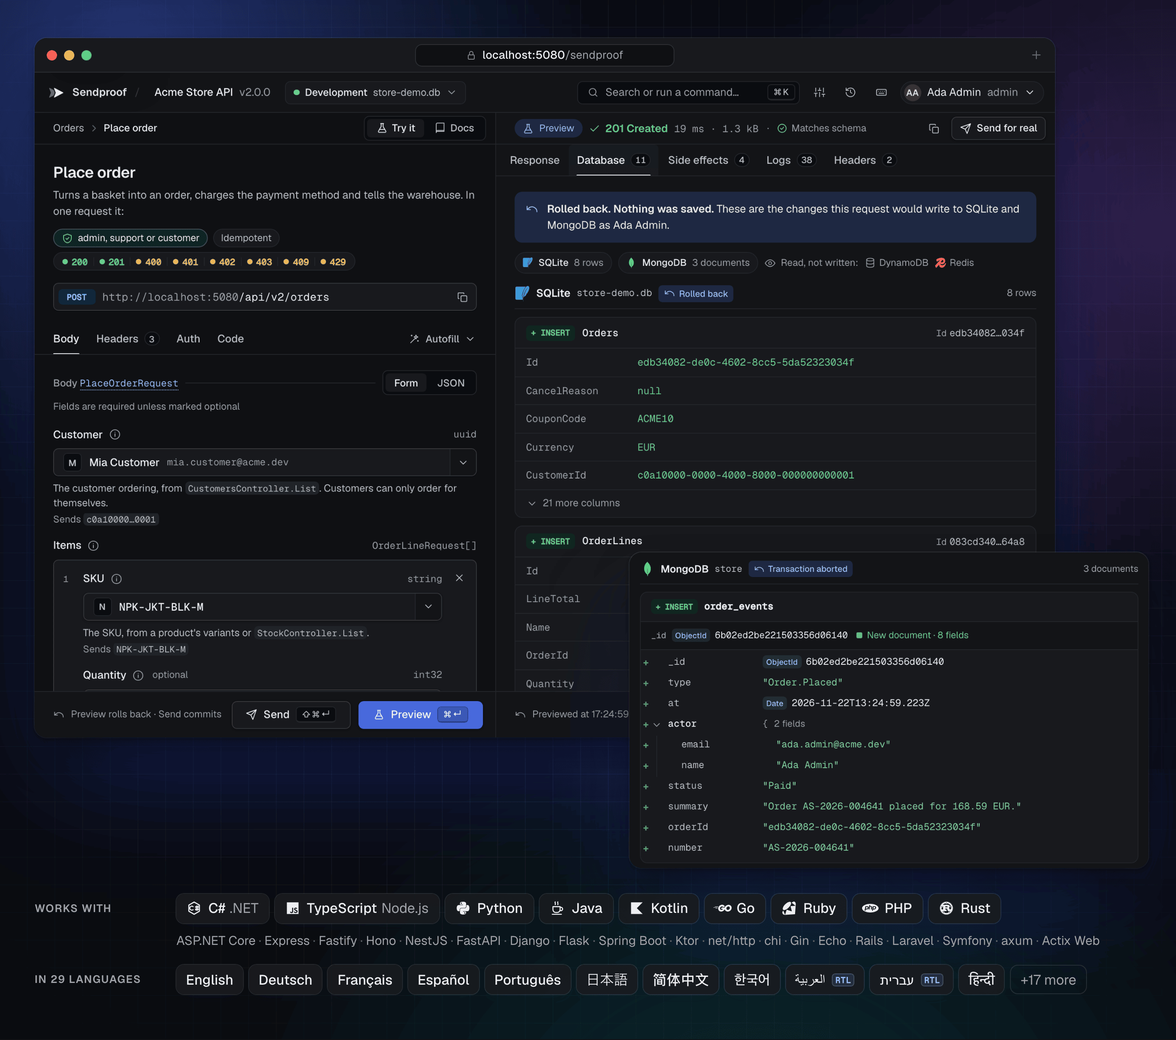
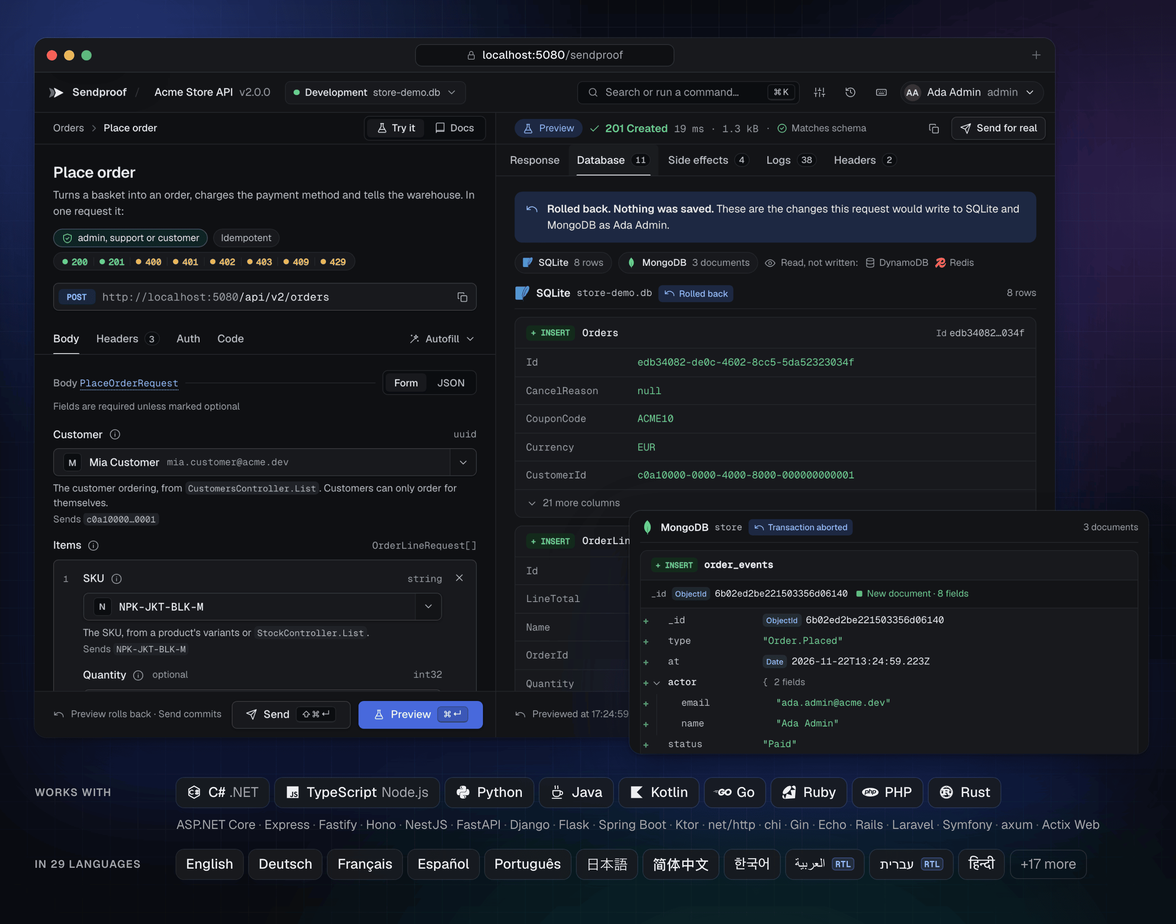
Tighten the hero so the MongoDB panel no longer leaves an empty band below the window
Raise the document panel, end it on a row boundary and lift the language strips. Drop the
remaining references to the old example's domain from the plan notes.

diff --git a/docs/images/src/hero.html b/docs/images/src/hero.html
@@ -9,8 +9,8 @@
   .main { position: relative; }
   /* The MongoDB document diff of the same Preview, pulled out below the SQL Orders row so it
      covers only the lower SQL cards and hangs off the window. */
-  .mongo { position: relative; margin: -214px 0 0 auto; inset: auto; right: 32px; width: max-content; }
-  .works { position: relative; margin: 30px 40px 0 0; }
+  .mongo { position: relative; margin: -262px 0 0 auto; inset: auto; right: 32px; width: max-content; }
+  .works { position: relative; margin: 28px 40px 0 0; }
 </style>
 <script src="../../../artifacts/readme/raw/manifest.js"></script>
 <script src="frame.js"></script>
@@ -30,10 +30,10 @@
 
   <div class="panel mongo">
     <!-- The Database tab of the same Preview, scrolled to its MongoDB document diff. -->
-    <div class="crop" data-raw="order-documents" data-region="documents" data-width="600"><img alt=""></div>
+    <div class="crop" data-raw="order-documents" data-region="documents" data-width="600" data-height="281"><img alt=""></div>
   </div>
 
-  <!-- Filled by works.js: the languages the bindings cover and the 30 interface languages. -->
+  <!-- Filled by works.js: the languages the bindings cover and the 29 interface languages. -->
   <div class="works" data-works></div>
 </div>
 </body>

diff --git a/docs/plans/workbench-v2-progress.md b/docs/plans/workbench-v2-progress.md
@@ -2,18 +2,18 @@
 
 ## Track B
 
-- **2026-11-20, phase 1 — foundation and shell.** The adapter embeds the v2 stylesheet and icon sprite from `ui/`. The new shell uses the mock layout in both themes with keyboard and pointer splitters, per-document widths, a mobile drawer and Request/Result switch. Sign-in uses the new tokens. All 51 UI unit tests, live Treasury integration and standalone accessibility pass. Compared 01, 02, 08 and 11 with the regenerated mock PNGs. Shell geometry matches and live API names and counts differ from the examples. Request controls and the result body are covered by their subsequent phases. Next is the request builder.
-- **2026-11-20, phase 2 — request builder.** Body/Params/Headers/Auth/Code views, Form/JSON switching, optional chips, grouped money and date fields, list rows, stable field assistance and actionable validation are live. Schema validation runs against the original schema and covers nested constraints and compositions. The action-bar issues dialog links to controls and keeps validation out of the document flow. All 61 UI unit tests, live Treasury integration and standalone accessibility pass. Compared 01, 02, 04, 08 and 11 with the mocks. The live example exposes fewer operations and fields. Autofill and the ID popover in 03 and 05 are phase 3.
-- **2026-11-20, phase 3 — IDs and autofill.** Lookup comboboxes query the documented same-origin collections with the browser session, support keyboard search, typed selection, clipboard IDs and random UUIDs, and prioritize the last applicable response. The Autofill menu fills required or all fields, replays eligible drafts, regenerates keys, clears and supports undo. All 61 UI unit tests, live Treasury integration and standalone accessibility pass. Compared 03 and 05 at 1440×900 against approved PNGs and corrected menu and lookup spacing, labels and visual cues. Example data and unsupported operations remain conditional. Next is the headers grid.
-- **2026-11-20, phase 4 — request headers.** The ARIA grid separates documented, session-managed and custom headers, with enable checkboxes, suggestions, presets, bulk edit and spec chips. Request preparation resolves variables once per execution and omits disabled rows. Validation now reports one issue per field with matching help text and no raw patterns. All 64 UI unit tests, live Treasury integration and standalone accessibility pass. Compared 06, 07 and 12 and fixed the live mobile layout at 390 px and 130% text. The mock's larger intrinsic minimum width is clipped to the viewport for comparison, and the live app is asserted to have no horizontal overflow. Next are keyboard overlays.
-- **2026-11-20, phase 5 — keyboard and overlays.** The registry supplies keyboard handling, keycaps, ARIA bindings, a searchable shortcut directory and scoped palette actions. Browser verification rejects orphan keycaps and ARIA bindings and exercises both overlays, scope changes and the bulk-headers shortcut. All 64 UI unit tests, live Treasury integration and standalone accessibility pass. Compared 09 and 10 and compacted the shortcut directory to match the approved grouping. The Copy URL binding uses Option+Command+U to avoid the mock's duplicate Switch user binding. Next is the result pane.
+- **2026-11-20, phase 1 — foundation and shell.** The adapter embeds the v2 stylesheet and icon sprite from `ui/`. The new shell uses the mock layout in both themes with keyboard and pointer splitters, per-document widths, a mobile drawer and Request/Result switch. Sign-in uses the new tokens. All 51 UI unit tests, live example integration and standalone accessibility pass. Compared 01, 02, 08 and 11 with the regenerated mock PNGs. Shell geometry matches and live API names and counts differ from the examples. Request controls and the result body are covered by their subsequent phases. Next is the request builder.
+- **2026-11-20, phase 2 — request builder.** Body/Params/Headers/Auth/Code views, Form/JSON switching, optional chips, grouped money and date fields, list rows, stable field assistance and actionable validation are live. Schema validation runs against the original schema and covers nested constraints and compositions. The action-bar issues dialog links to controls and keeps validation out of the document flow. All 61 UI unit tests, live example integration and standalone accessibility pass. Compared 01, 02, 04, 08 and 11 with the mocks. The live example exposes fewer operations and fields. Autofill and the ID popover in 03 and 05 are phase 3.
+- **2026-11-20, phase 3 — IDs and autofill.** Lookup comboboxes query the documented same-origin collections with the browser session, support keyboard search, typed selection, clipboard IDs and random UUIDs, and prioritize the last applicable response. The Autofill menu fills required or all fields, replays eligible drafts, regenerates keys, clears and supports undo. All 61 UI unit tests, live example integration and standalone accessibility pass. Compared 03 and 05 at 1440×900 against approved PNGs and corrected menu and lookup spacing, labels and visual cues. Example data and unsupported operations remain conditional. Next is the headers grid.
+- **2026-11-20, phase 4 — request headers.** The ARIA grid separates documented, session-managed and custom headers, with enable checkboxes, suggestions, presets, bulk edit and spec chips. Request preparation resolves variables once per execution and omits disabled rows. Validation now reports one issue per field with matching help text and no raw patterns. All 64 UI unit tests, live example integration and standalone accessibility pass. Compared 06, 07 and 12 and fixed the live mobile layout at 390 px and 130% text. The mock's larger intrinsic minimum width is clipped to the viewport for comparison, and the live app is asserted to have no horizontal overflow. Next are keyboard overlays.
+- **2026-11-20, phase 5 — keyboard and overlays.** The registry supplies keyboard handling, keycaps, ARIA bindings, a searchable shortcut directory and scoped palette actions. Browser verification rejects orphan keycaps and ARIA bindings and exercises both overlays, scope changes and the bulk-headers shortcut. All 64 UI unit tests, live example integration and standalone accessibility pass. Compared 09 and 10 and compacted the shortcut directory to match the approved grouping. The Copy URL binding uses Option+Command+U to avoid the mock's duplicate Switch user binding. Next is the result pane.
 
-- **2026-11-20, phase 6 — results and observed Send.** The result pane shows the live response, captured database changes, typed effects, structured logs, headers and server timings when available. Browser tests distinguish rolled-back Preview from committed Send, exercise its trace and follow-up, and check keyboard SQL and header disclosures. All 77 UI unit tests, live Treasury integration and standalone accessibility pass. Compared 13–17 against the mocks and corrected accessibility and log details. The demo provides a text email and filtered Preview headers, so other effect types, HTML and cookie rows depend on the captured data. Next is cleanup and the final regression run.
+- **2026-11-20, phase 6 — results and observed Send.** The result pane shows the live response, captured database changes, typed effects, structured logs, headers and server timings when available. Browser tests distinguish rolled-back Preview from committed Send, exercise its trace and follow-up, and check keyboard SQL and header disclosures. All 77 UI unit tests, live example integration and standalone accessibility pass. Compared 13–17 against the mocks and corrected accessibility and log details. The demo provides a text email and filtered Preview headers, so other effect types, HTML and cookie rows depend on the captured data. Next is cleanup and the final regression run.
 - **2026-11-20, phase 7 — finish.** Removed the v1 mocks and capture script, moved the approved designs to `mocks/`, and updated the README, changelog and contributor guide. Added a discovery skeleton and verified that it preserves the default pane bounds. Regenerated and compared all 17 live and approved screenshots. The Release build, 77 UI unit tests, 43 .NET tests, browser integration and standalone accessibility all pass. Browser artifacts are in `artifacts/browser/`. The schema validator resolves document-local pointers and anchors. External references, `$id`-scoped resources and dynamic references remain unsupported. No Track B phase remains.
 
 ## Track A
 
-- **2026-11-20.** Implemented scoped structured logs, redacted EF Core command capture, timing, typed email/HTTP/job/message effects, and owner-only observed sends. Updated the protocol schemas, adapter docs and Treasury example. Added regressions for capture isolation, host log levels, SQL redaction and opt-out, trace ownership and expiry, and capture bounds.
+- **2026-11-20.** Implemented scoped structured logs, redacted EF Core command capture, timing, typed email/HTTP/job/message effects, and owner-only observed sends. Updated the protocol schemas, adapter docs and the example. Added regressions for capture isolation, host log levels, SQL redaction and opt-out, trace ownership and expiry, and capture bounds.
 - Protocol v1 discovery adds optional `observedSend`. Send an advertised operation to its original URL with `Prefer: trace`. When the response contains `X-TestBench-Trace`, fetch `GET /bench/_api/traces/{id}` as that same authenticated subject. The trace contains `changes`, `effects`, `logs` and `timing: {auth, handler, db, queryCount, serialize}`. Durations are in milliseconds.
 - Preview and trace may include `logsTruncated`, `effectsTruncated` and `changesTruncated`. Logs add optional `category`, `eventId: {id, name?}`, `offsetMs`, `elapsedMs`, `properties: {[name]: string}`, `exception: {type, message}` and `sql: {text, parameters: [{name, value, dbType}], rowsAffected?}`. SQL uses `level: "Sql"`. A redacted parameter value is `"[REDACTED]"`.
 - Effects add optional `delivered: true` on observed Send. Conventional `data` fields are email `{from, to[], cc[], subject, text, html?}`, HTTP `{method, url, status?, body?}`, job `{name, queue?, runAt?, arguments}` and message `{topic, key?, payload}`. Both modes expose `Server-Timing` metrics `auth`, `handler`, `db` with `desc="N queries"`, and `serialize`.
@@ -28,14 +28,14 @@ How the UI is organised for v3:
 - `ui/i18n.js` formats with `Intl` and looks up strings in `ui/locales/{en,de,ar}.js`. `ui/settings.js` stores density, theme, language, digits and traced Send, and applies them to `<html>`.
 - `ui/components.js` holds the shared builders from the mock (`tab`, `kbd`, `copyButton`, `state`). `ui/copy.js` is the one clipboard path with visible feedback.
 
-- **2026-11-20, phase 0 — mocks.** Retuned `mocks/v3/styles.css` to the owner's scale (Default 14/36/40, Compact 13/32/36, Comfortable 15/40/44) and scaled fixed sizes in proportion. Send and Preview are centred with equal padding and per-locale, per-platform em widths. Added traced-Send-on (49), Arabic digits (50) and the v2-only states carried forward (51–56, m12), with their v2 styles moved to logical properties in `views.css`. The example API now keeps its cookie keys in `treasury-demo.keys/` beside its database.
+- **2026-11-20, phase 0 — mocks.** Retuned `mocks/v3/styles.css` to the owner's scale (Default 14/36/40, Compact 13/32/36, Comfortable 15/40/44) and scaled fixed sizes in proportion. Send and Preview are centred with equal padding and per-locale, per-platform em widths. Added traced-Send-on (49), Arabic digits (50) and the v2-only states carried forward (51–56, m12), with their v2 styles moved to logical properties in `views.css`. The example API now keeps its cookie keys in a keys folder beside its database.
 - **2026-11-20, phases 1–5 — shell, tabs and states, copy, wand and Code, sign-in, Docs and toggletips.** `ui/styles.css` and `ui/views.css` are the mock files; `ui/app.css` holds live-only rules (desktop track sizes are scoped to `min-width: 56.001rem` so the mock's one-column mobile grid wins). New modules: `i18n.js` and `locales/`, `settings.js`, `display-settings.js`, `components.js`, `copy.js`, `popover.js`, `toggletip.js`, `field-help.js`, `generate.js`, `generate-menu.js`, `sidebar.js` (Operations and Models tabs), `operation-header.js`, `action-bar.js`, `result-states.js` (all five tabs always present), `docs-view.js`, `model-view.js`, `overview-view.js`, `history-popover.js`, `schema-model.js`, `markdown.js`, `highlight.js`, `security.js`. Hash routes: `#overview`, `#op/<operationId>`, `#docs/<operationId>`, `#model/<Name>`. The example spec now documents `cookieAuth`, role alternatives (shown as "admin or payments.approve"), 401/403/404/409 and tag descriptions. Traced Send is on by default in Development and the trace returns changes, effects and logs (checked live). Unit tests pass (80). A Sonnet helper is localising the capture panes, headers editor, issues and validation messages into `ui/locales/en-capture.js`. Next: response Schema view, RTL and layout, de/ar catalogues, then the browser and accessibility suites.
 - **2026-11-20, phases 6–8 — models and response schema, i18n and RTL, remaining review items.** The response viewer has a Schema mode (`propertyTree` with the returned properties marked). German and Arabic catalogues cover every key (`locales/{de,ar}.js` and `*-capture.js`; a unit test checks keys and placeholders). Arabic is right to left with Latin digits by default and an Arabic-Indic option; dividers, popovers and arrow keys mirror. Lookups no longer query while signed out. The headers editor and Logs have the mock's empty and filtered-empty states. Sign-in maps 401 to "Wrong email or password" and explains 5xx with technical details. The v3 mocks moved to `mocks/` (v2 removed) and `tools/shoot-mocks.mjs` replaced `shoot-v2.mjs`; `tests/ui/mock-styles.test.mjs` keeps `ui/styles.css` and `ui/views.css` identical to the mocks. `tools/browser-test.mjs` compares the live app with v3 screens (01, 02, 18, 22, 30, 49, 51–56, m01, m12) and `tools/accessibility.mjs` audits every view, both themes, Arabic and German. Both pass against a dev host.
-- **2026-11-20, v3 finish.** Final runs: 91 UI unit tests, `dotnet test TestBench.slnx` (50 tests), `node tools/browser-test.mjs` and `node tools/accessibility.mjs` on fresh hosts, and the 25-binding conformance matrix all pass. The Go and Rust UI snapshots were regenerated with `tools/pack-ui.mjs`. The live demo runs from `artifacts/release-check` on port 5189 (log `artifacts/treasury-5189.log`); screenshots of its key states are in `artifacts/v3-live/`. Known gaps: the example has no deprecated operation, so deprecation (mock 26) is covered by unit tests only; header-editor popups position with physical left/top, which is correct in both directions because they're computed from the anchor.
+- **2026-11-20, v3 finish.** Final runs: 91 UI unit tests, `dotnet test TestBench.slnx` (50 tests), `node tools/browser-test.mjs` and `node tools/accessibility.mjs` on fresh hosts, and the 25-binding conformance matrix all pass. The Go and Rust UI snapshots were regenerated with `tools/pack-ui.mjs`. The live demo runs from `artifacts/release-check` on port 5189 (log `artifacts/demo-5189.log`); screenshots of its key states are in `artifacts/v3-live/`. Known gaps: the example has no deprecated operation, so deprecation (mock 26) is covered by unit tests only; header-editor popups position with physical left/top, which is correct in both directions because they're computed from the anchor.
 
 ## v4
 
-- **2026-11-20, phase A — realistic demo data.** `examples/TreasuryApi` is now a 40-operation treasury API (nine tags: Authentication, Accounts, Balances, Counterparties, Payments, Approvals, FX deals, Bank statements, Users and roles). Every operation, parameter and property is described (XML comments; a test checks it), with enums, formats, constraints, ProblemDetails and validation responses, per-operation roles, one deprecated operation (`GET /api/v2/accounts/{id}/balance`) and two discriminated unions (bank details by `scheme`, FX deals by `type`). Lists return `{ items, page, pageSize, totalItems, totalPages }`. The seed has 8 users, 27 accounts with valid IBANs, 51 counterparties, 188 payments in all nine statuses, 31 FX deals and 130 reconciling statements; Operating EUR still starts at 250000. Preview covers every meaningful write. Example tests (5), conformance `dotnet-treasury` (7), the browser and accessibility suites and `TestBench.slnx` pass; the fixtures compare payment counts against the seeded baseline.
+- **2026-11-20, phase A — realistic demo data.** The example API now has 40 operations across nine tags. Every operation, parameter and property is described (XML comments; a test checks it), with enums, formats, constraints, ProblemDetails and validation responses, per-operation roles, one deprecated operation (`GET /api/v2/accounts/{id}/balance`) and two discriminated unions. Lists return `{ items, page, pageSize, totalItems, totalPages }`. The seed covers every status and relationship the operations use. Preview covers every meaningful write. Example tests (5), the example conformance profile (7), the browser and accessibility suites and `TestBench.slnx` pass; the fixtures compare record counts against the seeded baseline.
 - **2026-11-20, phase B — v4 mocks.** The mocks render the real example: `tools/mock-spec.mjs` snapshots its document and responses into `mocks/spec.js`. New: `mocks/sidebar.js`, `mocks/flow.html`; rewritten `schema.js`, `docs.js`, `models.js`. Screens 57–75 and m13–m17 cover the stable shell, one reference space with breadcrumbs and Back, the property-row anatomy, inline `$ref` and `oneOf`, the signed-out notice, expanded JSON, remembered groups and aligned bars; every other screen was re-rendered in the new shell. `tools/shoot-mocks.mjs` fails if the column edges, head line or bar line differ between Try it, Docs and a model page. `ui/` was unchanged at this point. After approval, `v4.css` was merged into `styles.css` and `views.css` and deleted; model pages kept one Back control (in the head row), List pages start collapsed and model titles use the operation title font.
 - **2026-11-21, phase C — v4 in `ui/`.** The live app now follows mocks 57–75 and m13–m17, and every older screen sits in the same shell. `ui/styles.css` and `ui/views.css` are byte copies of the mocks (no `v4.css`; `tests/ui/mock-styles.test.mjs` checks both and the stylesheet links). What changed:
   - **Shell.** One three-column workspace for Try it, Docs, Models and the overview. Docs, model and overview pages render a `.pane.doc-pane` and `.pane.aside-pane` in the request and result slots, so the divider (`layout.js` measures whichever pane shows) is shared and persists. Head rows (`.tabs`, `.ctx-bar`, `.resp-head`/`.aside-head`) and bars (`.side-bar`, `.actionbar`, `.pane-bar`, `.result-bar` with History) share one line each; the boot skeleton in `index.html` mirrors them.
@@ -54,7 +54,7 @@ How the UI is organised for v3:
   - **Response viewer (`response-viewer.js`, `response-metadata.js`).** One-line toolbar (labels give way to icons at 26rem, the segment tightens at 20rem), the schema match in the status line with a toggletip (issues, "Show in Schema view", "Copy issues"), Pretty issue marks, no wrapping anywhere (sticky gutter), Raw with Wrap (⌥Z) and footer, a real Table (sticky header, row numbers and name column, edge fade, "N columns, scroll"), Schema in compact rows with presence marks and search.
   - **Colour.** New tokens in `styles.css` (`--info`, `--required`, `--code-bg`, `--fact`, `--t-*` type families, `--in-*` parameter locations) for type tints, the warm "Required", tinted constraint values and code, location pills, status codes by class (2xx/3xx/4xx/5xx) in Docs, the response tabs and the result, an accent marker on Docs section headings, the accent outline item and tinted callouts. `ui/token-contrast.test.mjs` checks every pairing for AA in both themes.
   - **Languages (`i18n.js`, `display-settings.js`, `ui/locales/`).** 34 languages in six groups, catalogues loaded on demand, Persian and Arabic digits, per-script fonts loaded only for the active language, a searchable picker with samples, RTL tags, Preview tags for machine-translated catalogues and a mirrored RTL preview. `tests/ui/locales.test.mjs` checks keys, placeholders, plural categories, glyphs, `dir`, measured button widths and date letters.
-  - **Spec.** `examples/TreasuryApi` emits `x-replaced-by`, `x-sunset`, the `Sunset`/`Deprecation` headers and `x-enum-descriptions`; `mocks/spec.js` was regenerated and `mocks/v5-spec.js` keeps only its flag, the stylesheet and the mismatch samples.
+  - **Spec.** The example API emits `x-replaced-by`, `x-sunset`, the `Sunset`/`Deprecation` headers and `x-enum-descriptions`; `mocks/spec.js` was regenerated and `mocks/v5-spec.js` keeps only its flag, the stylesheet and the mismatch samples.
   - **Styles.** v5 rules live in `ui/styles.css` and `ui/views.css`, copied back to `mocks/` (the byte-for-byte test holds); `mocks/v5.css` still scopes the mock-only builders.
   - **Tests.** `tools/browser-test.mjs` `verifyV5Controls` (select keyboard, type-ahead, Esc focus, radio arrows and Delete, LTR and RTL anchoring, the language picker, deprecation carry-over, the one-line toolbar in a 20rem pane, Table and Raw, phone sheets, no horizontal page scroll, axe on each state); `tools/accessibility.mjs` checks the attribute list's toggles and their memory. `SET=v5 node tools/shoot-live.mjs` writes `artifacts/v5-impl/` with mock | live composites.
 

diff --git a/docs/plans/bindings-progress.md b/docs/plans/bindings-progress.md
@@ -34,9 +34,9 @@ TypeORM and the `better-sqlite3` driver passed 11 of 11 checks. The provider sel
 
 Prisma 7.10.1 with the Better SQLite driver adapter passed all 11 HTTP checks. The provider checks the physical rollback and driver completion separately from the callback failure, and a local regression covers a release without rollback acknowledgment. The fixture client is generated locally from its Prisma schema.
 
-### ASP.NET Core and Treasury
+### ASP.NET Core and the reference example
 
-The disposable ASP.NET Core/EF Core fixture passed 11 of 11 HTTP conformance checks. The Treasury profile passed 7 of 7, including independent reads of payments and balances around Preview and Send. Generic rejection, rollback-failure and asset coverage moved to the conformance runner. All 49 .NET tests passed after the migration. The in-process tests still cover model binding, delayed rollback, endpoint policy, and provider availability.
+The disposable ASP.NET Core/EF Core fixture passed 11 of 11 HTTP conformance checks. The reference example profile passed 7 of 7, including independent reads of payments and balances around Preview and Send. Generic rejection, rollback-failure and asset coverage moved to the conformance runner. All 49 .NET tests passed after the migration. The in-process tests still cover model binding, delayed rollback, endpoint policy, and provider availability.
 
 ### FastAPI
 
@@ -84,7 +84,7 @@ The Actix Web adapter shares the SQLx SQLite provider with Axum and passed 11 of
 
 ### Full matrix
 
-The final run passed all 271 tests across 25 manifest entries with zero failures or skips. Each standard fixture passed 11 tests. Treasury passed its seven profile tests. The matrix covers real HTTP transport, schema validation, authorization, independent rollback and commit checks, trace ownership and expiry, and capture limits.
+The final run passed all 271 tests across 25 manifest entries with zero failures or skips. Each standard fixture passed 11 tests. The reference example passed its seven profile tests. The matrix covers real HTTP transport, schema validation, authorization, independent rollback and commit checks, trace ownership and expiry, and capture limits.
 
 Local test totals include 49 .NET, 8 Node, 67 Python, 79 JVM, 95 PHP, 119 Ruby and 41 Rust tests, plus Go vet and race-detector suites. The Node consumer type check passed for the framework packages and Prisma. The CI workflow passed Actionlint. Go and Gradle used project-local toolchains or wrappers.
 
@@ -132,4 +132,4 @@ The providers discover tables and primary keys automatically. SQLite uses connec
 
 ### Full database matrix
 
-The full run passed 513 of 513 checks across 47 profiles, with no failures or skips. Each standard profile passed 11 checks. Treasury passed 7. Final targeted reruns passed 33 HTTP checks for Drizzle, 22 for Rust MySQL and 121 for Go. A clean Node workspace install built all ten packages, generated all three Prisma clients, passed `tsc --noEmit`, and produced ten archives containing ESM and generated declarations. The final Node local suite passed 281 tests. Actionlint and Compose configuration checks passed.
+The full run passed 513 of 513 checks across 47 profiles, with no failures or skips. Each standard profile passed 11 checks. The reference example passed 7. Final targeted reruns passed 33 HTTP checks for Drizzle, 22 for Rust MySQL and 121 for Go. A clean Node workspace install built all ten packages, generated all three Prisma clients, passed `tsc --noEmit`, and produced ten archives containing ESM and generated declarations. The final Node local suite passed 281 tests. Actionlint and Compose configuration checks passed.
